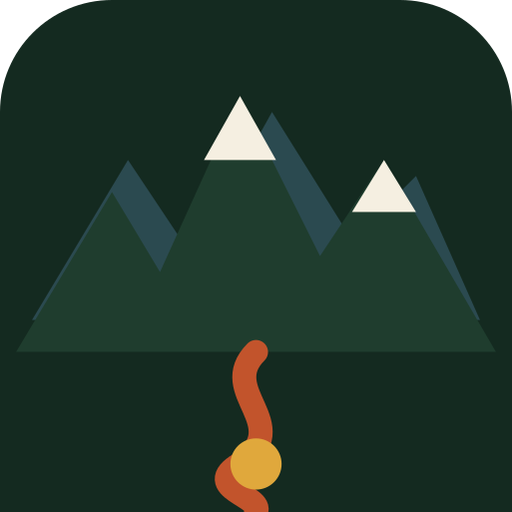
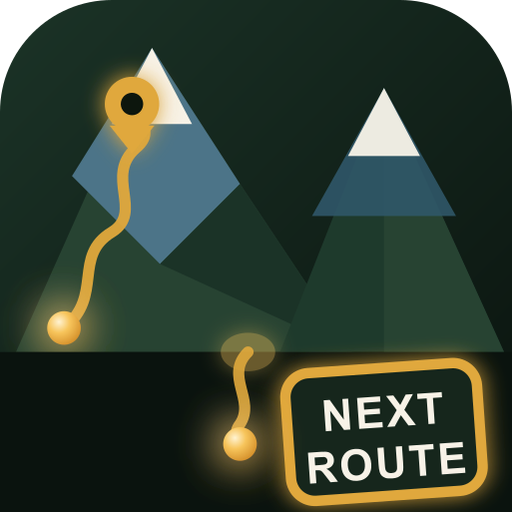
Rediseña el ícono con montaña, ruta dorada y letrero, y agrega borrado de rutas en el admin
Icono: pin de ubicación en la montaña izquierda, ruta dorada bajando al valle
y letrero "NEXT ROUTE" con brillo. Admin: nuevo botón para eliminar una ruta
completa desde la sección de edición, con confirmación en dos pasos.

Changed region(s): [[0.0312, 0.0938, 1.0, 0.6875], [0.375, 0.625, 0.9688, 1.0]]

diff --git a/app/admin/page.tsx b/app/admin/page.tsx
@@ -67,6 +67,7 @@ export default function AdminPage() {
   const [nuevaRuta, setNuevaRuta] = useState({ nombre: "", slug: "", descripcion: "" });
   const [editandoRutaId, setEditandoRutaId] = useState<string | null>(null);
   const [editRuta, setEditRuta] = useState({ nombre: "", descripcion: "", activa: true });
+  const [confirmandoEliminarRutaId, setConfirmandoEliminarRutaId] = useState<string | null>(null);
 
   const [nuevaParada, setNuevaParada] = useState({ nombre: "", lat: "", lng: "" });
   const [agregandoParada, setAgregandoParada] = useState(false);
@@ -215,6 +216,30 @@ export default function AdminPage() {
     }
     setMensaje("Ruta actualizada.");
     setEditandoRutaId(null);
+    cargarRutas();
+  };
+
+  const eliminarRuta = async (id: string) => {
+    const { data, error } = await supabase.from("rutas").delete().eq("id", id).select();
+    if (error) {
+      // Si la ruta todavía tiene paradas, unidades o claves, la base de datos
+      // bloquea el borrado en vez de arrastrarlas también — hay que vaciarla
+      // primero a propósito, para no perder datos reales sin querer.
+      if (error.message.toLowerCase().includes("foreign key") || error.message.toLowerCase().includes("violat")) {
+        setMensaje("No se puede eliminar: esta ruta todavía tiene paradas, unidades o claves. Bórralas primero desde 'Gestionando' esa ruta.");
+      } else {
+        setMensaje(`Error al eliminar: ${error.message}`);
+      }
+      return;
+    }
+    if (!data || data.length === 0) {
+      setMensaje("No se pudo eliminar: falta el permiso en Supabase (pide el SQL de DELETE para rutas).");
+      return;
+    }
+    setMensaje("Ruta eliminada.");
+    setConfirmandoEliminarRutaId(null);
+    setEditandoRutaId(null);
+    if (rutaSeleccionadaId === id) setRutaSeleccionadaId(null);
     cargarRutas();
   };
 
@@ -794,6 +819,24 @@ export default function AdminPage() {
                       Cancelar
                     </button>
                   </div>
+                  {confirmandoEliminarRutaId === r.id ? (
+                    <div className="flex gap-2 items-center pt-1">
+                      <span className="text-xs text-red-600 flex-1">¿Eliminar &quot;{r.nombre}&quot;? No se puede deshacer.</span>
+                      <button onClick={() => eliminarRuta(r.id)} className="shrink-0 text-xs font-medium px-3 py-1.5 rounded-full bg-red-600 text-white">
+                        Sí, eliminar
+                      </button>
+                      <button onClick={() => setConfirmandoEliminarRutaId(null)} className="shrink-0 text-xs font-medium px-3 py-1.5 rounded-full border border-forest/20 text-forest">
+                        Cancelar
+                      </button>
+                    </div>
+                  ) : (
+                    <button
+                      onClick={() => setConfirmandoEliminarRutaId(r.id)}
+                      className="text-xs font-medium text-red-600/70 hover:text-red-600 pt-1"
+                    >
+                      Eliminar ruta
+                    </button>
+                  )}
                 </div>
               ) : (
                 <div
